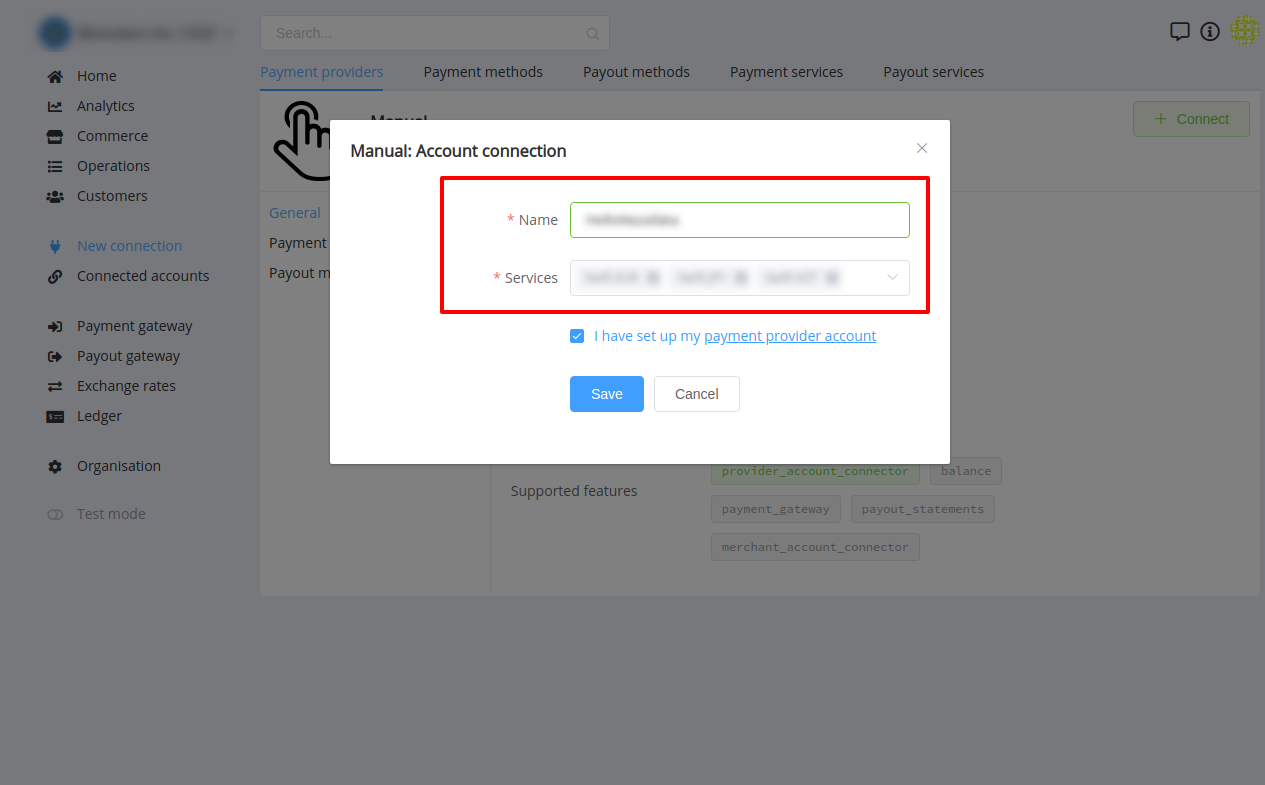
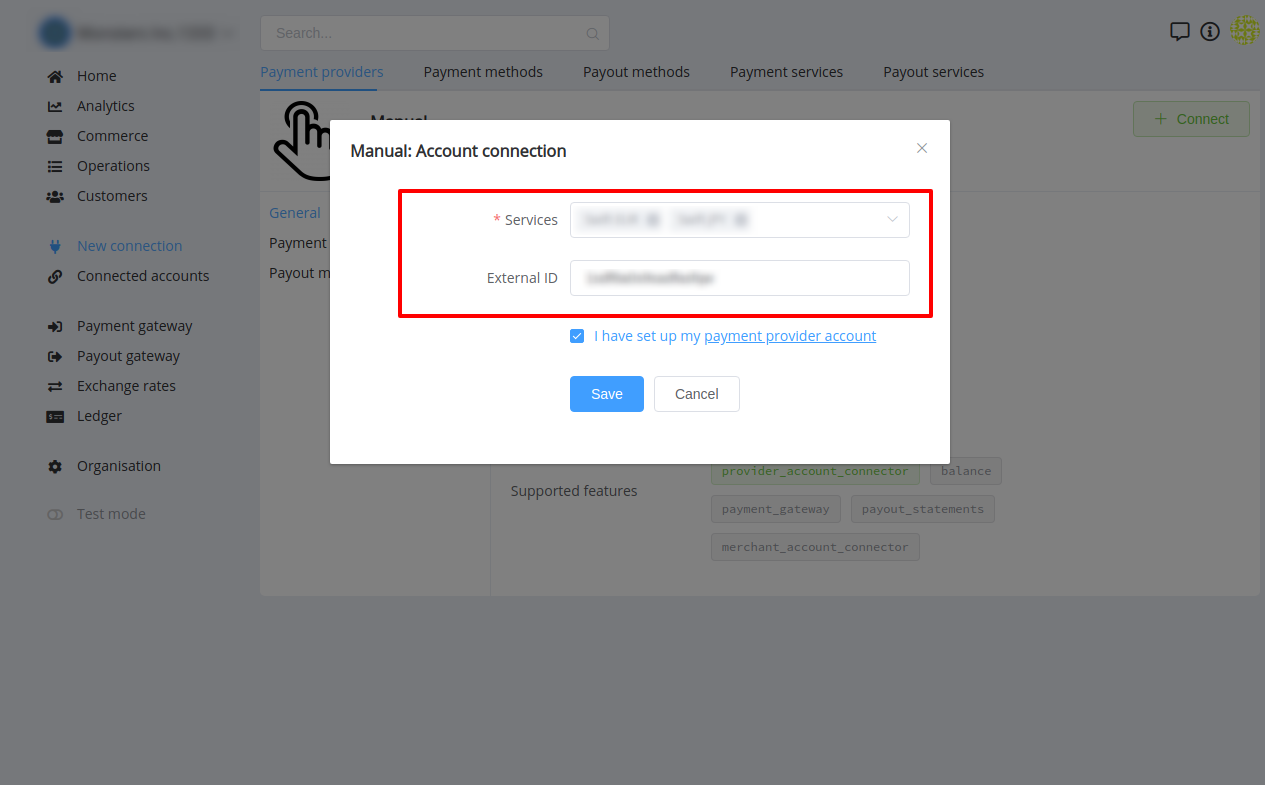
invocies update, minor fixes

Changed region(s): [[0.3083, 0.214, 0.7399, 0.428], [0.5241, 0.3363, 0.6783, 0.3669], [0.4008, 0.2752, 0.4625, 0.3057]]

diff --git a/docs/products/commerce/payout-invoice/index.md b/docs/products/commerce/payout-invoice/index.md
@@ -33,25 +33,24 @@ It means that this type of commerce operations can be processed as **automatical
 ## Status list
 
 Below is a list of statuses and it's descriptions:
-<table>
-<tr><th><b>Code</b></th><th><b>Final</b></th><th><b>Sleeping State</b></th><th><b>Description</b></th></tr>
 
-<tr><td>created</td><td>No</td><td>No</td><td>Initial status after a Payout Invoice is created, processing has not started. <br> If PayCore.io will not return response 201 (Created) HTTP status code on your request, you should consider that the payout invoice was failed to be created</td></tr>
-<tr style="background-color:#ff8787"><td>expired</td><td><b>Yes</b></td><td>No</td><td>Means the Payout Invoice hit the lifetime limit (configurable in the 'Invoice lifetime' property) without being successfully processed, but also did not either cancelled or terminated, e.g. your customer has abandoned the payout</td></tr>
-<tr style="background-color:#ff8787"><td>terminated</td><td><b>Yes</b></td><td>No</td><td>Means that the payout process was terminated by a payer prior to the payout invoice lifetime limit</td></tr>
-<tr><td>processing</td><td>No</td><td><b>Yes</b></td><td>Signifies that the payout invoice is processing by PayCore.io but its processing is not finished and there will be further status updates</td></tr>
-<tr><td>process_pending</td><td>No</td><td><b>Yes</b></td><td>Means that the result of the payout process still being unknown and may not be known for an extended period of time</td></tr>
-<tr style="background-color:#79f99b"><td>processed</td><td>No</td><td>No</td><td>Confirms the payout has been processed successfully. <br> This isn't a final status since the payout can be refunded for different reasons</td></tr>
-<tr style="background-color:#79f99b"><td>partially_processed</td><td>No</td><td>No</td><td>Means that the amount paid is less than the payout invoice amount and that amount is successfully processed, e.g. your customer has entered an amount less than the invoice amount while making an online payout</td></tr>
-<tr style="background-color:#ff8787"><td>process_failed</td><td><b>Yes</b></td><td>No</td><td>Signifies that the Payout Invoice processing has failed, may be set when an error occurs and the corresponding payout request has failed. <br> This status is considered final due to the maximum number of attempts has been reached (default – 5 attempts)</td></tr>
-<tr><td>refunding</td><td>No</td><td><b>Yes</b></td><td> Means the payout invoice is refunding and the result of the payout invoice refunding still being unknown</td></tr>
-<tr><td>refund_pending</td><td>No</td><td><b>Yes</b></td><td> Means that the result of the payout refunding still being unknown and may not be known for an extended period of time</td></tr>
-<tr style="background-color:#79f99b"><td>partially_refunded</td><td><b>Yes</b></td><td>No</td><td>Means that the amount refunded is less than the payout invoice amount and that amount is successfully refunded.</td></tr>
-<tr style="background-color:#79f99b"><td>refunded</td><td><b>Yes</b></td><td>No</td><td>Means the payout invoice is successfully refunded in full</td></tr>
-<tr style="background-color:#ff8787"><td>refund_failed</td><td><b>Yes</b></td><td>No</td><td>Means that the payout invoice refunding has been failed or cannot be completed</td></tr>
-
-
-</table>
+|Code|Final|Description|
+|--- |--- |--- |
+|created|No|Initial status after a Payout Invoice is created, processing has not started.  If PayCore.io will not return response 201 (Created) HTTP status code on your request, you should consider that the payout invoice was failed to be created|
+|expired|Yes|Means the Payout Invoice hit the lifetime limit (configurable in the 'Invoice lifetime' property) without being successfully processed, but also did not either cancelled or terminated, e.g. your customer has abandoned the payout|
+|terminated|Yes|Means that the payout process was terminated by a payer prior to the payout invoice lifetime limit|
+|processing|No|Signifies that the payout invoice is processing by PayCore.io but its processing is not finished and there will be further status updates|
+|process_pending|No|Means that the result of the payout process still being unknown and may not be known for an extended period of time|
+|processed|No|Confirms the payout has been processed successfully.  This isn't a final status since the payout can be canceled for different reasons|
+|partially_processed|No|Means that the actual amount is less than the payout invoice amount and that amount is successfully processed|
+|process_error|No||
+|process_failed|Yes|Signifies that the Payout Invoice processing has failed, may be set when an error occurs and the corresponding payout request has failed.  This status is considered final due to the maximum number of attempts has been reached (default – 5 attempts)|
+|canceling|No|Means the payout invoice is canceling and the result of the payout invoice canceling still being unknown|
+|cancel_pending|No|Means that the result of the payout canceling still being unknown and may not be known for an extended period of time|
+|partially_canceled|Yes|Means that the amount canceled is less than the payout invoice amount and that amount is successfully canceled.|
+|canceled|Yes|Means the payout invoice is successfully canceled in full|
+|cancel_error|No||
+|cancel_failed|Yes|Means that the payout invoice canceling has been failed or cannot be completed|
 
 ## Guide
 
@@ -75,19 +74,19 @@ This action consists of 3 stages:
     !!! tip
         Hover over the option label to see info tooltip!
 
-    ??? info "Payout Invoice Creating: Create"
+    !!! info "Payout Invoice Creating: Create"
         [![Payout Invoice](images/payout_invoice_creating1.png)](images/payout_invoice_creating1.png)
 
         [![Payout Invoice](images/payout_invoice_creating1_1.png)](images/payout_invoice_creating1_1.png)
 
 - Confirm : this stage is intended to get user ensured that all data is correct and functionality for **manual** process
 
-    ??? info "Payout Invoice Creating: Confirm"
+    !!! info "Payout Invoice Creating: Confirm"
         [![Payout Invoice](images/payout_invoice_creating2.png)](images/payout_invoice_creating2.png)
 
 - Result : contains processing data 
 
-    ??? info "Payout Invoice Creating: Result"
+    !!! info "Payout Invoice Creating: Result"
         [![Payout Invoice](images/payout_invoice_creating3.png)](images/payout_invoice_creating3.png)
 
 
@@ -123,17 +122,16 @@ To configure the payout invoice set necessary properties at Commerce Account **`
 
 ### Payout options table
 
-<table>
-<tr><th><b>Option</b></th><th><b>Description</b></th></tr>
-<tr><td style="font-weight:bold;">Public Zero-Fee badge</td><td>Wheather to give a sign "without commission" for each service through the Public API.</td></tr>
-<tr><td style="font-weight:bold;">Public fee details</td><td>Wheather to give detailed commission values for each service through the Public API.</td></tr>
-<tr><td style="font-weight:bold;">Moderation required</td><td>Do not perform an operation without manual moderation</td></tr>
-<tr><td style="font-weight:bold;">Allow partially</td><td>Partial processing allowed</td></tr>
-<tr><td style="font-weight:bold;">Parallel mode</td><td>Parallel or sequential processing strategy</td></tr>
-<tr><td style="font-weight:bold;">Split mode</td><td>Allow the splitting of operation when exceeding the amount limit</td></tr>
-<tr><td style="font-weight:bold;">Include commission</td><td>Put the commission in the payout amount and calculate it from the amount of the write-off</td></tr>
-<tr><td style="font-weight:bold;">Expose internal callback data</td><td>Expose internal callback data</td></tr>
-<tr><td style="font-weight:bold;">Invoice lifetime</td><td>Set operation expiration time based on creation. Expires = created + lifetime</td></tr>
-<tr><td style="font-weight:bold;">Attempts limit</td><td>How many times processor will try to create new operation based on failed status</td></tr>
-<tr><td style="font-weight:bold;">Descriptor template</td><td>Operation descriptor generation template for processing provider</td></tr>
-</table>
+|Option|Description|
+|--- |--- |
+|Public Zero-Fee badge|Wheather to give a sign "without commission" for each service through the Public API.|
+|Public fee details|Wheather to give detailed commission values for each service through the Public API.|
+|Moderation required|Do not perform an operation without manual moderation|
+|Allow partially|Partial processing allowed|
+|Parallel mode|Parallel or sequential processing strategy|
+|Split mode|Allow the splitting of operation when exceeding the amount limit|
+|Include commission|Put the commission in the payout amount and calculate it from the amount of the write-off|
+|Expose internal callback data|Expose internal callback data|
+|Invoice lifetime|Set operation expiration time based on creation. Expires = created + lifetime|
+|Attempts limit|How many times processor will try to create new operation based on failed status|
+|Descriptor template|Operation descriptor generation template for processing provider|

diff --git a/docs/products/commerce/payment-invoice/index.md b/docs/products/commerce/payment-invoice/index.md
@@ -30,25 +30,24 @@ The Payment Invoice includes information on the **_`amount`_**, **_`currency`_**
 ## Status list
 
 Below is a list of statuses and it's descriptions:
-<table>
-<tr><th><b>Code</b></th><th><b>Final</b></th><th><b>Sleeping State</b></th><th><b>Description</b></th></tr>
 
-<tr><td>created</td><td>No</td><td>No</td><td>Initial status after a Payment Invoice is created, processing has not started. <br> If PayCore.io will not return response 201 (Created) HTTP status code on your request, you should consider that the payment invoice was failed to be created</td></tr>
-<tr style="background-color:#ff8787"><td>expired</td><td><b>Yes</b></td><td>No</td><td>Means the Payment Invoice hit the lifetime limit (configurable in the 'Invoice lifetime' property) without being successfully processed, but also did not either cancelled or terminated, e.g. your customer has abandoned the payment</td></tr>
-<tr style="background-color:#ff8787"><td>terminated</td><td><b>Yes</b></td><td>No</td><td>Means that the payment process was terminated by a payer prior to the payment invoice lifetime limit</td></tr>
-<tr><td>processing</td><td>No</td><td><b>Yes</b></td><td>Signifies that the payment invoice is processing by PayCore.io but its processing is not finished and there will be further status updates</td></tr>
-<tr><td>process_pending</td><td>No</td><td><b>Yes</b></td><td>Means that the result of the payment process still being unknown and may not be known for an extended period of time</td></tr>
-<tr style="background-color:#79f99b"><td>processed</td><td>No</td><td>No</td><td>Confirms the payment has been processed successfully. <br> This isn't a final status since the payment can be refunded for different reasons</td></tr>
-<tr style="background-color:#79f99b"><td>partially_processed</td><td>No</td><td>No</td><td>Means that the amount paid is less than the payment invoice amount and that amount is successfully processed, e.g. your customer has entered an amount less than the invoice amount while making an online payment</td></tr>
-<tr style="background-color:#ff8787"><td>process_failed</td><td><b>Yes</b></td><td>No</td><td>Signifies that the Payment Invoice processing has failed, may be set when an error occurs and the corresponding payment request has failed. <br> This status is considered final due to the maximum number of attempts has been reached (default – 5 attempts)</td></tr>
-<tr><td>refunding</td><td>No</td><td><b>Yes</b></td><td> Means the payment invoice is refunding and the result of the payment invoice refunding still being unknown</td></tr>
-<tr><td>refund_pending</td><td>No</td><td><b>Yes</b></td><td> Means that the result of the payment refunding still being unknown and may not be known for an extended period of time</td></tr>
-<tr style="background-color:#79f99b"><td>partially_refunded</td><td><b>Yes</b></td><td>No</td><td>Means that the amount refunded is less than the payment invoice amount and that amount is successfully refunded.</td></tr>
-<tr style="background-color:#79f99b"><td>refunded</td><td><b>Yes</b></td><td>No</td><td>Means the payment invoice is successfully refunded in full</td></tr>
-<tr style="background-color:#ff8787"><td>refund_failed</td><td><b>Yes</b></td><td>No</td><td>Means that the payment invoice refunding has been failed or cannot be completed</td></tr>
-
-
-</table>
+|Code|Final|Description|
+|--- |--- |--- |
+|created|No|Initial status after a Payment Invoice is created, processing has not started.  If PayCore.io will not return response 201 (Created) HTTP status code on your request, you should consider that the payment invoice was failed to be created|
+|expired|Yes|Means the Payment Invoice hit the lifetime limit (configurable in the 'Invoice lifetime' property) without being successfully processed, but also did not either cancelled or terminated, e.g. your customer has abandoned the payment|
+|terminated|Yes|Means that the payment process was terminated by a payer prior to the payment invoice lifetime limit|
+|processing|No|Signifies that the payment invoice is processing by PayCore.io but its processing is not finished and there will be further status updates|
+|process_pending|No|Means that the result of the payment process still being unknown and may not be known for an extended period of time|
+|processed|No|Confirms the payment has been processed successfully.  This isn't a final status since the payment can be refunded for different reasons|
+|partially_processed|No|Means that the amount paid is less than the payment invoice amount and that amount is successfully processed, e.g. your customer has entered an amount less than the invoice amount while making an online payment|
+|process_error|No||
+|process_failed|Yes|Signifies that the Payment Invoice processing has failed, may be set when an error occurs and the corresponding payment request has failed.  This status is considered final due to the maximum number of attempts has been reached (default – 5 attempts)|
+|refunding|No|Means the payment invoice is refunding and the result of the payment invoice refunding still being unknown|
+|refund_pending|No|Means that the result of the payment refunding still being unknown and may not be known for an extended period of time|
+|partially_refunded|Yes|Means that the amount refunded is less than the payment invoice amount and that amount is successfully refunded.|
+|refunded|Yes|Means the payment invoice is successfully refunded in full|
+|refund_error|No||
+|refund_failed|Yes|Means that the payment invoice refunding has been failed or cannot be completed|
 
 ## Payment Invoice: Guide
 
@@ -105,14 +104,13 @@ To configure the payment invoice **`lifetime`** or **`attempts limit`**:
 
 ### Payment options table
 
-<table >
-<tr><th><b>Option</b></th><th><b>Description</b></th></tr>
-
-<tr><td style="font-weight:bold;">Allow public creation</td><td>Allow payment creation through the Public API. Used to create payments through HPP.</td></tr>
-<tr><td style="font-weight:bold;">Public Zero-Fee badge</td><td>Wheather to give a sign "without commission" for each service through the Public API.</td></tr>
-<tr><td style="font-weight:bold;">Public fee details</td><td>Wheather to give detailed commission values for each service through the Public API.</td></tr>
-<tr><td style="font-weight:bold;">Include commission</td><td>Put the commission in the payment amount and calculate it from the amount of the write-off</td></tr>
-<tr><td style="font-weight:bold;">Expose internal callback data</td><td>Expose internal callback data</td></tr>
-<tr><td style="font-weight:bold;">Invoice lifetime</td><td>Set operation expiration time based on creation. Expires = created + lifetime</td></tr>
-<tr><td style="font-weight:bold;">Attempts limit</td><td>How many times processor will try to create new operation based on failed status</td></tr>
-<tr><td style="font-weight:bold;">Descriptor template</td><td>Operation descriptor generation template for processing provider</td></tr>
+|Option|Description|
+|--- |--- |
+|Allow public creation|Allow payment creation through the Public API. Used to create payments through HPP.|
+|Public Zero-Fee badge|Wheather to give a sign "without commission" for each service through the Public API.|
+|Public fee details|Wheather to give detailed commission values for each service through the Public API.|
+|Include commission|Put the commission in the payment amount and calculate it from the amount of the write-off|
+|Expose internal callback data|Expose internal callback data|
+|Invoice lifetime|Set operation expiration time based on creation. Expires = created + lifetime|
+|Attempts limit|How many times processor will try to create new operation based on failed status|
+|Descriptor template|Operation descriptor generation template for processing provider|

diff --git a/docs/connectors/maxpay/index.md b/docs/connectors/maxpay/index.md
@@ -1,0 +1,117 @@
+<img src="https://static.openfintech.io/payment_providers/maxpay/logo.svg?w=400" width="400px">
+
+# MaxPay Connector
+
+## Introduction
+
+Here You can find  instructions for setting up **Paymega** accounts.
+
+!!! info
+     This provider supports **`Merchant`** and **`Provider`** account connection!
+
+## Provider account
+
+### Setup account
+
+#### Step 1: Contact with MaxPay Support Manager
+
+This Payment Provoider gives acoount credentials personaly to their merchants!
+    
+#### Step 2: Get required credentials
+
+-   Account ID
+-   Account Password
+-   Signature key
+
+!!! success
+    You have configured account!
+    
+### Connect account
+
+#### Step 1: Copy required credentials
+
+#### Step 2: Enter credentials
+
+-   Account ID
+-   Account Password
+-   Signature key
+
+!!! tip
+    Press **`Connect`** at MaxPay **`Provider Overview page`** in **`New connection`** section to open Connection form!
+    Choose **`Provider`** account type.
+
+
+
+!!! info "Screenshot"
+    [![Connect](images/maxpay_provider_connect1.png)](images/maxpay_provider_connect1.png)
+    [![Connect](images/maxpay_provider_connect2.png)](images/maxpay_provider_connect2.png)
+
+!!! success
+    You have connected **MaxPay** **Provider** Account!
+
+
+## Merchant account
+
+
+### Setup account
+
+#### Step 1: Log in to [**MaxPay** Merchant Portal](https://my.maxpay.eu/)
+
+#### Step 2: Create Payment Page
+
+- Go to the **Payment Pages** section
+- Press create button
+
+!!! info "Screenshots"
+    [![Create](images/merch_acc__payment_page_create1.png)](images/merch_acc__payment_page_create1.png)
+
+
+#### Step 3: Upgrade  your page to LIVE
+
+!!! tip
+    Contact MaxPay support manager to upgrade your payment page!
+
+#### Step 4: Get required credentials
+
+- Go to created Page —> General
+- Find and copy:
+    -  **Test** public key
+    -  **Test** secret key
+    -  **Live** public key
+    -  **Live** secret key
+
+#### Step 5: Set up parameters
+
+- Callback URL: ```https://psp-ext.paycore.io/maxpay/callback```
+
+!!! info "Screenshots"
+    [![SetUp](images/merch_acc__setup.png)](images/merch_acc__setup.png)
+
+!!! success
+    You have configured account!
+    
+### Connect account
+
+#### Step 1: Copy required credentials
+
+
+#### Step 2: Enter credentials
+
+-  **Test** public key
+-  **Test** secret key
+-  **Live** public key
+-  **Live** secret key
+
+!!! tip
+    Press **`Connect`** at MaxPay **`Provider Overview page`** in **`New connection`** section to open Connection form!
+    Choose **`Merchant`** account type.
+
+
+
+!!! info "Screenshot"
+    [![Connect](images/maxpay_merchant_connect1.png)](images/maxpay_merchant_connect1.png)
+    [![Connect](images/maxpay_merchant_connect2.png)](images/maxpay_merchant_connect2.png)
+
+
+!!! success
+    You have connected **MaxPay** **Merchant** Account!

diff --git a/docs/connectors/manual/index.md b/docs/connectors/manual/index.md
@@ -1,4 +1,4 @@
-<img src="https://static.openfintech.io/payment_providers/manual/logo.svg?w=400" width="400px">
+<img src="https://static.openfintech.io/payment_providers/manual/logo.svg?w=200" width="200px">
 
 # Manual Connector
 
@@ -13,8 +13,8 @@ Here You can find  instructions for setting up **Manual**  account.
 
 #### Step 1: Enter credentials
 
-- Name
 - Services
+- External ID (_optional_)
 
 It should have 32 characters or less!
 

diff --git a/docs/connectors/test/index.md b/docs/connectors/test/index.md
@@ -1,4 +1,4 @@
-<img src="https://static.openfintech.io/payment_providers/test/logo.svg?w=400" width="400px">
+<img src="https://static.openfintech.io/payment_providers/test/logo.svg?w=200" width="200px">
 
 # Test Connector
 
